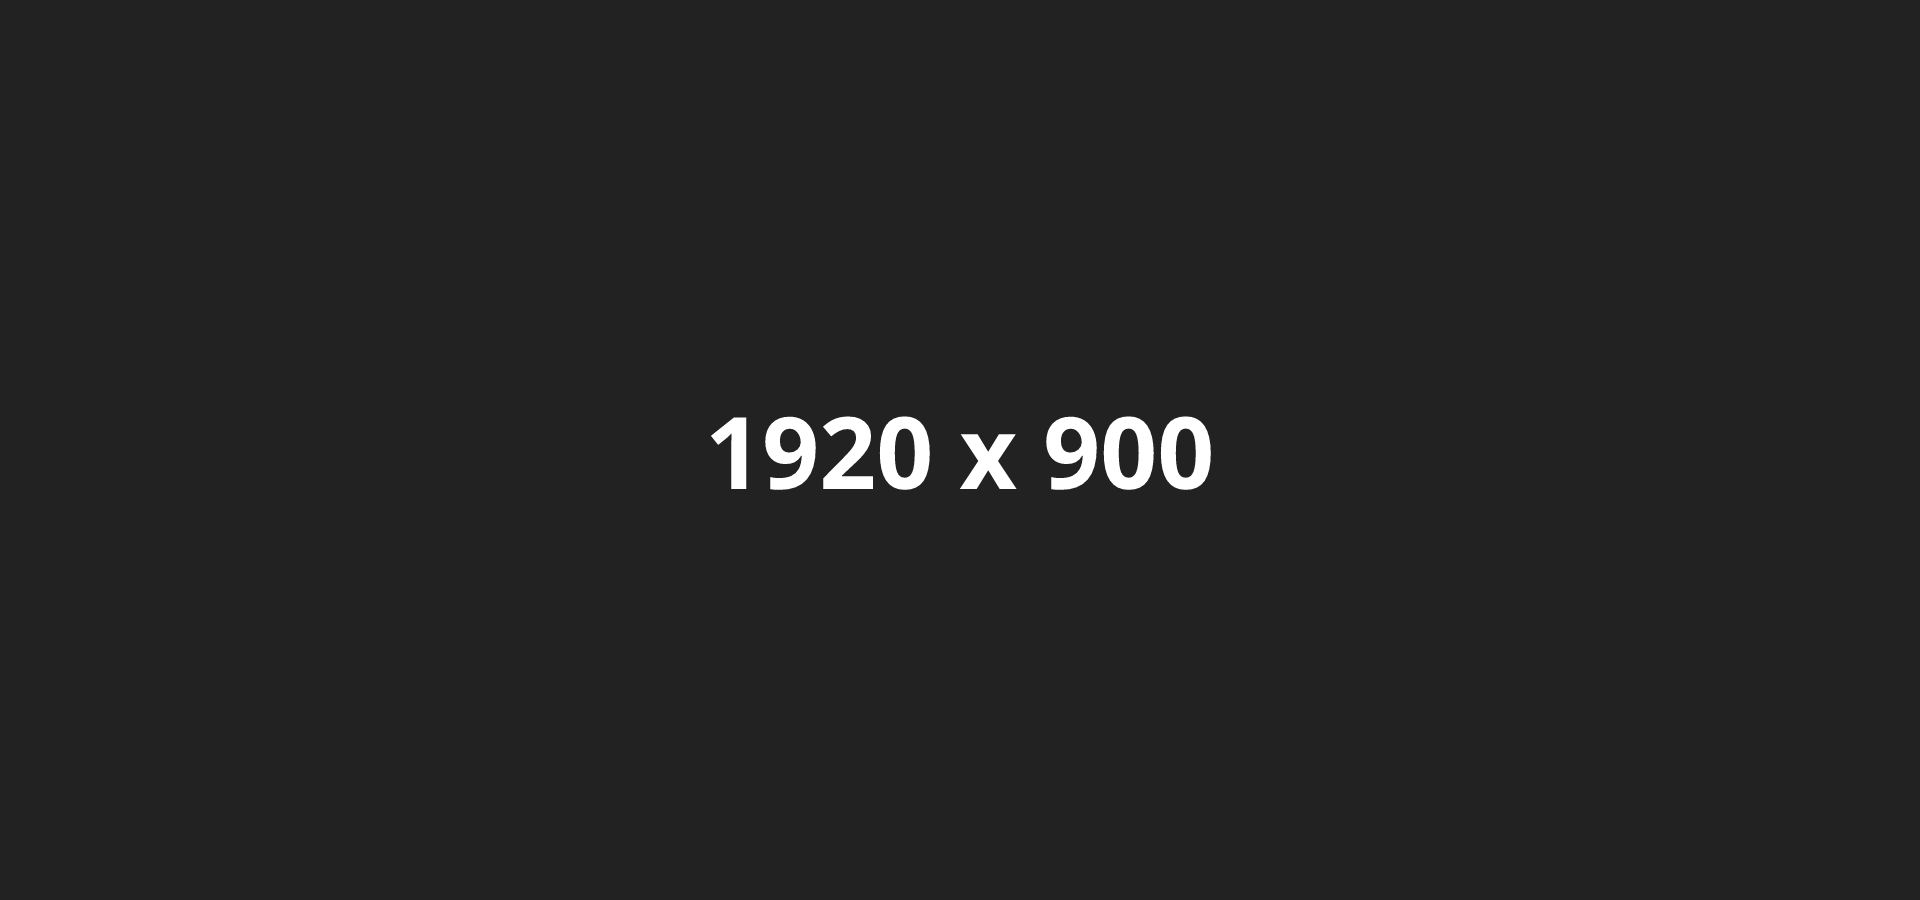
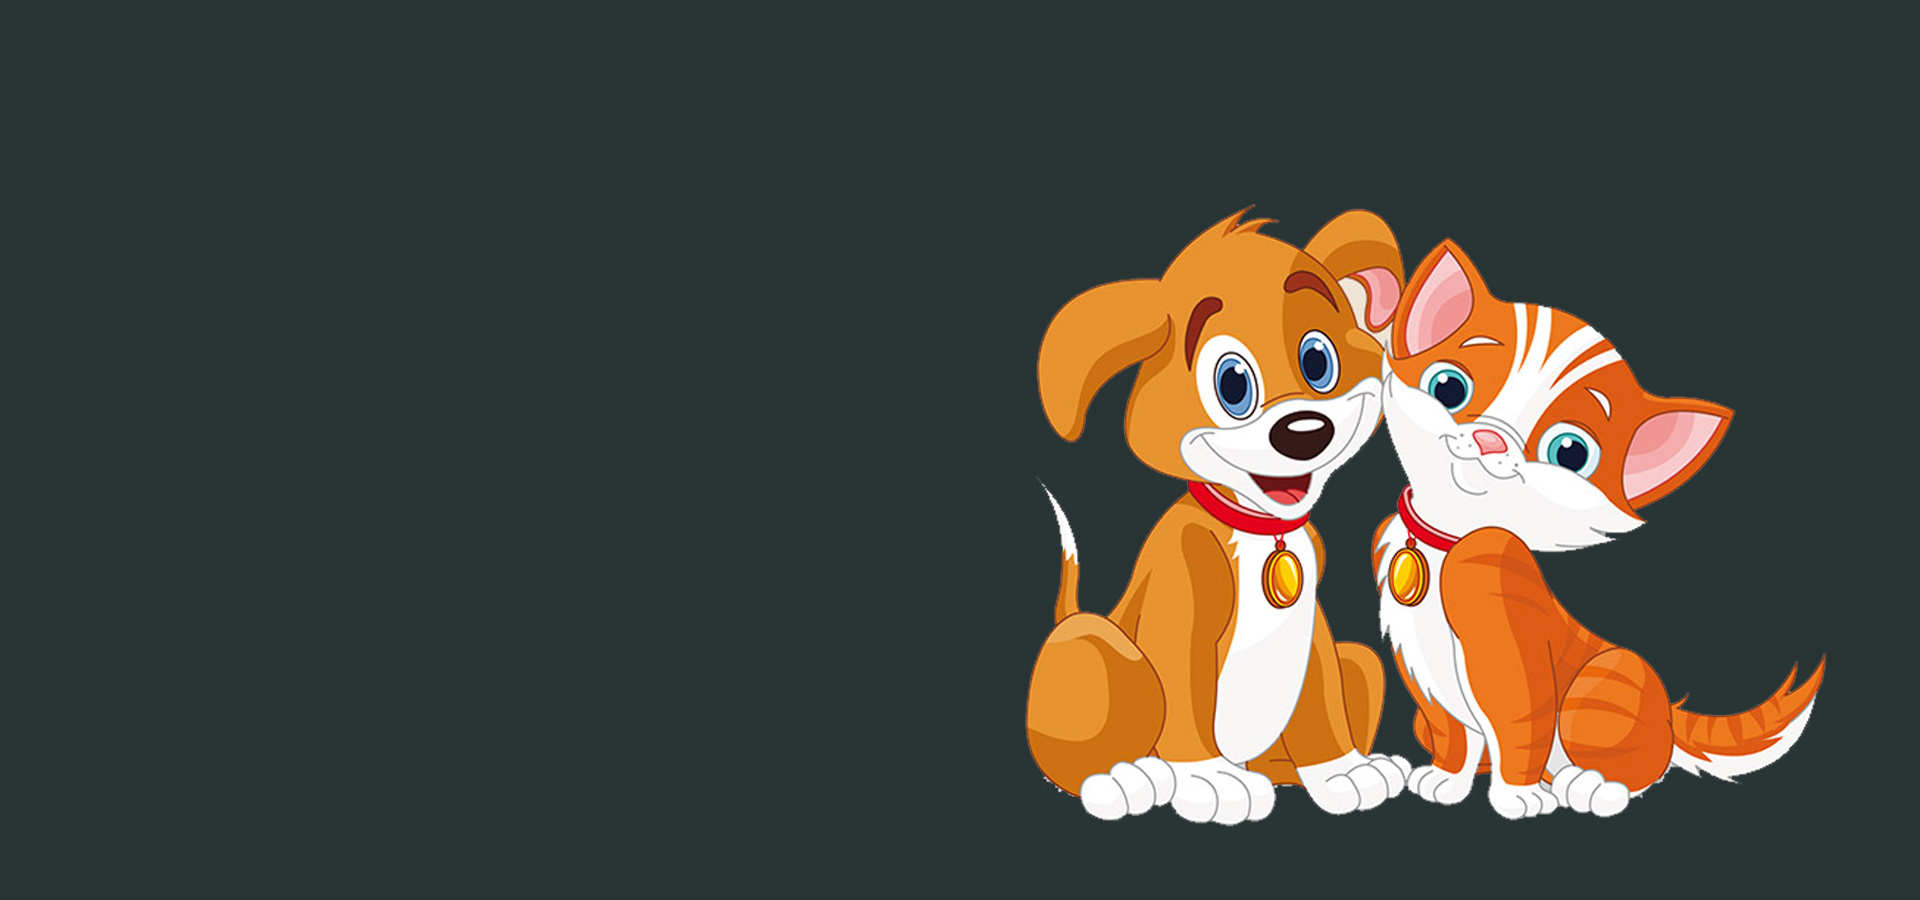
home update
home page

Changed region(s): [[0.375, 0.2178, 0.9688, 0.9333]]

diff --git a/Front_End/Angular-Front-End/src/app/UIComponent/homecontent/homecontent.component.html b/Front_End/Angular-Front-End/src/app/UIComponent/homecontent/homecontent.component.html
@@ -1,0 +1,47 @@
+<!-- BANNER -->
+	<div id="oc-fullslider" class="banner owl-carousel">
+        <div class="owl-slide">
+        	<div class="item">
+	            <img src="assets/images/dummy-img-1920x900.jpg" alt="Slider">
+	            <div class="slider-pos">
+		            <div class="container">
+		            	<div class="wrap-caption">
+			                <h1 class="caption-heading">We Provide The Best<br>products For Your Pets</h1>
+			                <p class="">The best pets products at Pet Paradise, more than 10.000+ customers happy.</p>
+			                <a href="#" class="btn btn-primary">More About Us</a>
+			            </div>
+		            </div>
+	            </div>
+        	</div>
+        </div>
+        <div class="owl-slide">
+        	<div class="item">
+	            <img src="assets/images/dummy-img-1920x900-2.jpg" alt="Slider">
+	            <div class="slider-pos">
+		            <div class="container">
+		            	<div class="wrap-caption">
+			                <h1 class="caption-heading">We Provide The Best<br>Care For Your Pets</h1>
+			                <p class="">The best pets services at Pet Paradise, more than 20.000+ customers happy.</p>
+			                <a href="#" class="btn btn-primary">More About Us</a>
+			            </div>
+		            </div>
+	            </div>
+        	</div>
+        </div>
+        <div class="owl-slide">
+        	<div class="item">
+	            <img src="assets/images/dummy-img-1920x900-3.jpg" alt="Slider">
+	            <div class="slider-pos">
+		            <div class="container">
+		            	<div class="wrap-caption">
+			                <h1 class="caption-heading text-primary">We help your Pets<br>enjoy their life</h1>
+			                <p class="">The Dating Pet service at Pet Paradise always please you.</p>
+			                <a href="#" class="btn btn-primary">More About Us</a>
+			            </div>
+		            </div>
+	            </div>
+        	</div>
+        </div>
+    </div>
+
+	<div class="clearfix"></div>

diff --git a/Front_End/Angular-Front-End/src/app/UIComponent/homecontent/homecontent.component.spec.ts b/Front_End/Angular-Front-End/src/app/UIComponent/homecontent/homecontent.component.spec.ts
@@ -1,0 +1,25 @@
+import { async, ComponentFixture, TestBed } from '@angular/core/testing';
+
+import { HomecontentComponent } from './homecontent.component';
+
+describe('HomecontentComponent', () => {
+  let component: HomecontentComponent;
+  let fixture: ComponentFixture<HomecontentComponent>;
+
+  beforeEach(async(() => {
+    TestBed.configureTestingModule({
+      declarations: [ HomecontentComponent ]
+    })
+    .compileComponents();
+  }));
+
+  beforeEach(() => {
+    fixture = TestBed.createComponent(HomecontentComponent);
+    component = fixture.componentInstance;
+    fixture.detectChanges();
+  });
+
+  it('should create', () => {
+    expect(component).toBeTruthy();
+  });
+});

diff --git a/Front_End/Angular-Front-End/src/app/app-routing.module.ts b/Front_End/Angular-Front-End/src/app/app-routing.module.ts
@@ -4,12 +4,15 @@ import {RouterModule, Routes} from '@angular/router';
 import {ShopComponent} from './shop-module/shop.component';
 import { IndexComponent } from './index-module/index.component';
 import {FormComponent} from './UIComponent/form/form.component';
+import { HomecontentComponent } from './UIComponent/homecontent/homecontent.component';
+
 
 const routes: Routes = [
+  {path: '', redirectTo: "/home", pathMatch: 'full'},
   {path: 'shops', component: ShopComponent},
   {path: 'index', component: IndexComponent},
-  {path: 'form', component: FormComponent}
-
+  {path: 'form', component: FormComponent},
+  {path: 'home', component: HomecontentComponent}
 ];
 
 @NgModule({

diff --git a/Front_End/Angular-Front-End/src/app/app.module.ts b/Front_End/Angular-Front-End/src/app/app.module.ts
@@ -25,11 +25,13 @@ import { HttpClientModule }    from '@angular/common/http';
 // import { TopSellerComponent } from './shop-module/top-seller/top-seller.component';
 import {MainlayoutModuleModule} from './mainlayout-module/mainlayout-module.module';
 import { FormComponent } from './UIComponent/form/form.component';
+import { HomecontentComponent } from './UIComponent/homecontent/homecontent.component';
 
 @NgModule({
   declarations: [
     AppComponent,
     FormComponent,
+    HomecontentComponent,
     // LoadPageComponent,
     // BackTopSectionComponent,
     // HeaderComponent,

diff --git a/Front_End/Angular-Front-End/src/app/UIComponent/homecontent/homecontent.component.ts b/Front_End/Angular-Front-End/src/app/UIComponent/homecontent/homecontent.component.ts
@@ -1,0 +1,15 @@
+import { Component, OnInit } from '@angular/core';
+
+@Component({
+  selector: 'app-homecontent',
+  templateUrl: './homecontent.component.html',
+  styleUrls: ['./homecontent.component.css']
+})
+export class HomecontentComponent implements OnInit {
+
+  constructor() { }
+
+  ngOnInit() {
+  }
+
+}
